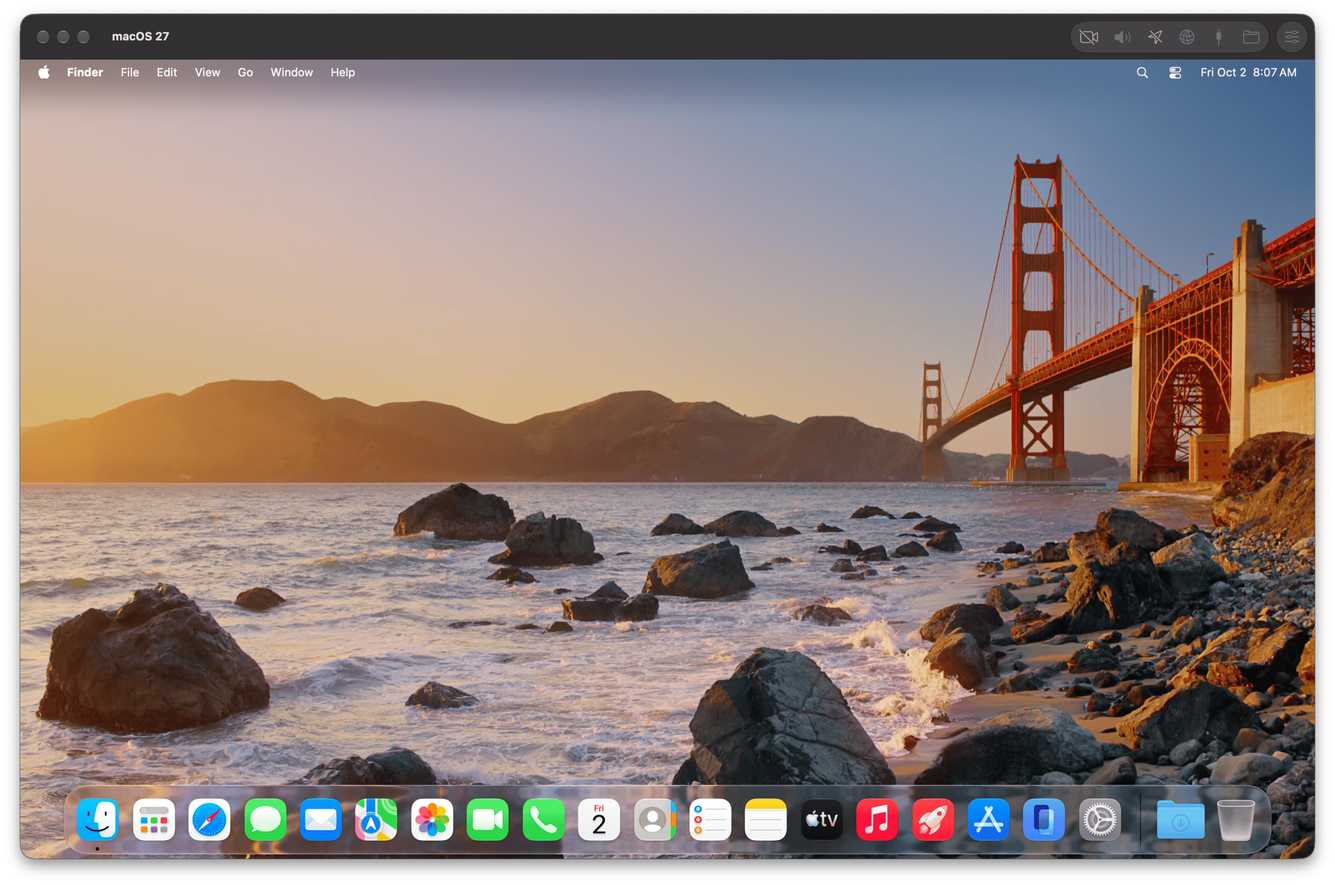
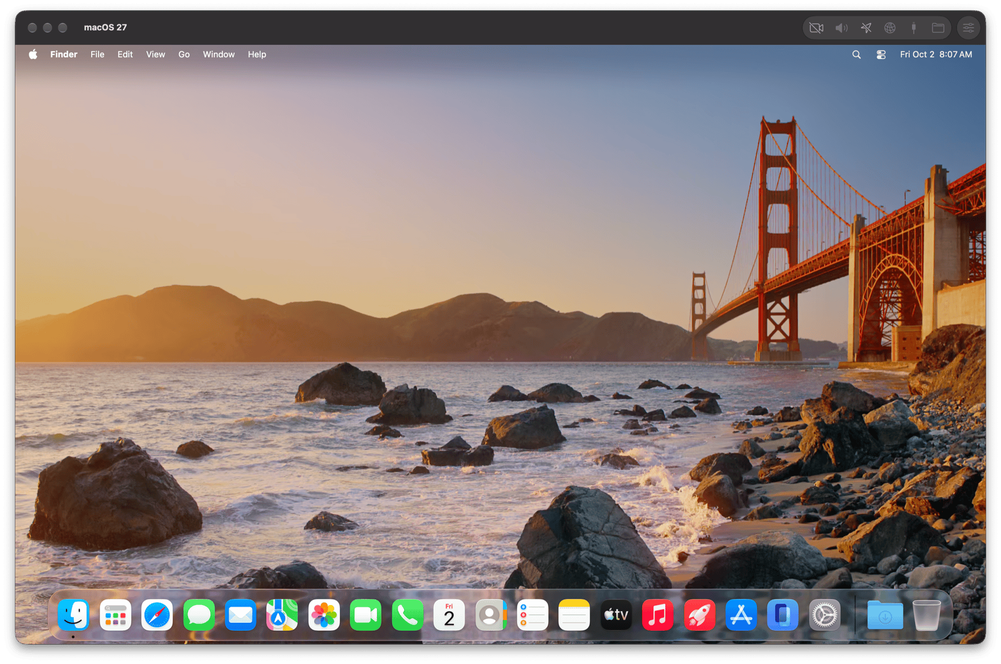
Updated README.

Changed region(s): [[0.28, 0.8987, 0.3422, 0.9606], [0.7778, 0.8987, 0.8089, 0.9606], [0.6844, 0.8987, 0.7156, 0.9606]]

diff --git a/README.md b/README.md
@@ -64,19 +64,12 @@ and imports your VMs from Parallels Desktop
 
 When a VM crashes, stops with an error or won't start, its log tells us why.
 
-1. In Finder, choose **Go › Go to Folder…** (⇧⌘G), paste `~/Library/Logs/VMPal` and press Return.
-2. Find the log named after your VM, such as `Windows 11.log`. If there's a `Windows 11.old.log` too, include it.
-3. Then either:
-   - **Attach it to your issue**: drag the `.log` file into the issue's comment box, or
-   - **Email it** to [nick@tableplus.com](mailto:nick@tableplus.com), with your issue's link or a few words on what happened.
+1. In VMPal, select the VM and choose **Help › Show Logs in Finder**. Finder opens with its log selected.
+2. Drag the log into your issue's comment box, or email it to [nick@tableplus.com](mailto:nick@tableplus.com) with your issue's link.
 
-A log can include your VM's name and the names of files and folders on your Mac. If you'd rather not post it publicly, email it.
+If VMPal or a VM quit unexpectedly, also choose **Help › Show Crash Reports in Finder**. Choose **File › Compress** in Finder and attach the `.zip`.
 
-Some problems have a log of their own. Please attach it as well:
-
-- **VMPal or a VM quit unexpectedly**: macOS keeps a crash report. Go to `~/Library/Logs/DiagnosticReports` the same way, select the files whose names start with `VMPal` from around that time, choose **File › Compress**, and attach the `.zip`.
-- **A Linux base OS didn't install**: go to `~/Library/Application Support/VMPal/Downloads/Linux` and attach `ubuntu-install.log` or `fedora-install.log`.
-- **VMPal Tools didn't install in Windows**: click **Show Log** in its installer, or open `C:\Windows\Temp\VMPal Tools.log`. Copy it to your Mac, for example through a shared folder, and attach it.
+A log can include your VM's name and the names of files on your Mac. If you'd rather not post it publicly, email it.
 
 <br>
 

diff --git a/.github/ISSUE_TEMPLATE/1-Bug_report.md b/.github/ISSUE_TEMPLATE/1-Bug_report.md
@@ -36,9 +36,9 @@ labels: 'bug'
 <!--
 If a VM crashed, stopped with an error or won't start, please attach its log:
 
-1. In Finder, choose Go › Go to Folder… (⇧⌘G), paste ~/Library/Logs/VMPal and press Return.
-2. Drag the log named after your VM, such as "Windows 11.log", into this box.
+1. In VMPal, select the VM and choose Help › Show Logs in Finder.
+2. Drag the selected log into this box.
 
-Rather not post it publicly? Email it to nick@tableplus.com with this issue's link.
-VMPal or a VM quit unexpectedly? See "Sending us a log" in the README for the crash report.
+VMPal or a VM quit unexpectedly? Also choose Help › Show Crash Reports in Finder, then File › Compress, and attach the .zip.
+Rather not post them publicly? Email them to nick@tableplus.com with this issue's link.
 -->
